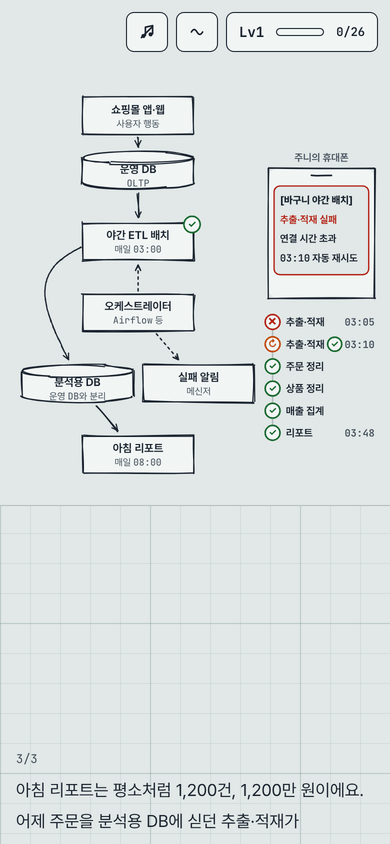
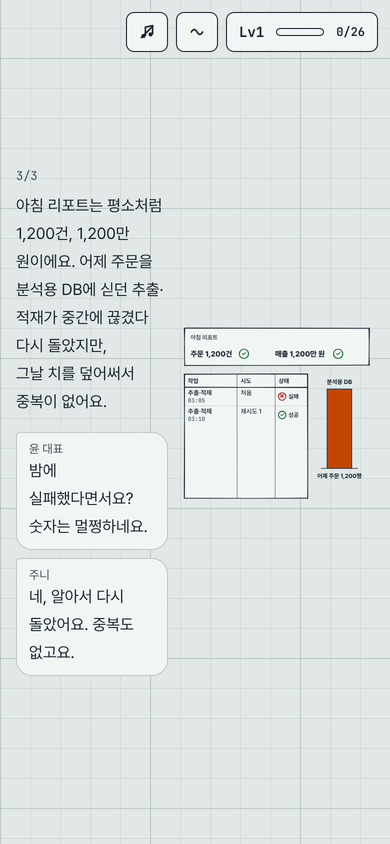
Phones: text left, figure right in portrait too (#5)
Scroll scenes keep the side-by-side layout below 768px: the title spans
both columns, steps sit in the left column and the figure stays pinned in
the right column. Dialogue bubbles show only the name on phones, and words
joined by a middle dot may wrap after the dot on phones. README image and
docs describe the new layout.

diff --git a/src/components/StepScene.tsx b/src/components/StepScene.tsx
@@ -42,9 +42,9 @@ export function StepScene(props: Props) {
   return reduced ? <StaticScene {...props} /> : <ScrubScene {...props} />
 }
 
-function SceneHeader({ id, kind, scene }: Pick<Props, 'id' | 'kind' | 'scene'>) {
+function SceneHeader({ id, kind, scene, className = '' }: Pick<Props, 'id' | 'kind' | 'scene'> & { className?: string }) {
   return (
-    <header className="pb-2 pt-[12svh] md:pt-[18svh]">
+    <header className={`pb-2 pt-[12svh] md:pt-[18svh] ${className}`}>
       <p className="font-mono text-sm text-muted">{UI.sceneKinds[kind]}</p>
       <h3 id={`${id}-title`} className="mt-1 text-[1.375rem] font-bold leading-snug md:text-[1.625rem]">
         {scene.title}
@@ -55,15 +55,16 @@ function SceneHeader({ id, kind, scene }: Pick<Props, 'id' | 'kind' | 'scene'>) 
 
 function StepBody({ step, i, n, srAlt = true }: { step: Step; i: number; n: number; srAlt?: boolean }) {
   return (
-    <div className="max-w-[34rem]">
+    <div className="min-w-0 max-w-[34rem]">
       <p className="mb-2 font-mono text-xs text-muted" aria-hidden="true">
         {i + 1}/{n}
       </p>
-      <p className="text-[1.0625rem] leading-[1.85] md:text-[1.1875rem]">
+      <p className="text-[1rem] leading-[1.75] md:text-[1.1875rem] md:leading-[1.85]">
         <Rich text={step.text} />
       </p>
+      {/* 모바일은 글 칸이 좁아서 말풍선의 얼굴 그림을 빼고 이름만 보여 준다 */}
       {step.lines?.length ? (
-        <div className="mt-4 space-y-2 md:mt-5 md:space-y-3">
+        <div className="mt-4 space-y-2 max-md:[&_svg]:hidden md:mt-5 md:space-y-3">
           {step.lines.map((l, k) => (
             <Bubble key={k} line={l} />
           ))}
@@ -133,7 +134,7 @@ function primeTransforms(tl: gsap.core.Timeline) {
   for (const el of els) gsap.getProperty(el, 'x')
 }
 
-function ScrubScene({ id, kind, scene, diagram, build, onStep, tall }: Props) {
+function ScrubScene({ id, kind, scene, diagram, build, onStep }: Props) {
   const root = useRef<HTMLDivElement>(null)
   const diag = useRef<HTMLDivElement>(null)
   const list = useRef<HTMLOListElement>(null)
@@ -156,7 +157,7 @@ function ScrubScene({ id, kind, scene, diagram, build, onStep, tall }: Props) {
       tl.time(1e-4).time(0)
 
       const items = Array.from(list.current.querySelectorAll<HTMLElement>('[data-step]'))
-      const anchor = mobile ? 0.74 : 0.5
+      const anchor = 0.5
       let last = -1
       const update = contextSafe!(() => {
         const y = window.innerHeight * anchor
@@ -195,29 +196,22 @@ function ScrubScene({ id, kind, scene, diagram, build, onStep, tall }: Props) {
   )
 
   return (
-    <section ref={root} id={id} className="relative flex flex-col md:grid md:grid-cols-[minmax(0,min(30rem,40%))_minmax(0,1fr)] lg:grid-cols-[minmax(0,min(30rem,45%))_minmax(0,1fr)] md:gap-x-12 lg:gap-x-16">
-      {/* 모바일: 위쪽 띠에 고정(HUD 아래), 옆 여백을 줄여 그림을 조금이라도 크게.
+    <section ref={root} id={id} className="relative grid grid-cols-[minmax(0,11fr)_minmax(0,14fr)] gap-x-3 md:grid-cols-[minmax(0,min(30rem,40%))_minmax(0,1fr)] lg:grid-cols-[minmax(0,min(30rem,45%))_minmax(0,1fr)] md:gap-x-12 lg:gap-x-16">
+      {/* 글은 왼쪽, 그림은 오른쪽 칸에 화면 높이로 고정(휴대폰 세로 화면도 같다). 모바일은 제목이 두 칸을 다 쓰고 그 아래에서 나란히.
           그림 설명은 step마다 화면 밖 글자(StepBody)로 읽히므로 그림 자체는 낭독에서 뺀다 */}
-      <div
-        aria-hidden="true"
-        className={`sticky top-0 z-10 -mx-4 border-b border-edge bg-bg px-2 pb-3 pt-[3.5rem] md:bg-transparent md:col-start-2 md:row-start-1 md:mx-0 md:h-svh md:self-start md:border-0 md:px-0 md:py-[7svh] ${
-          tall ? 'h-[60svh]' : 'h-[56svh]'
-        }`}
-      >
+      <div aria-hidden="true" className="sticky top-0 col-start-2 row-start-2 h-svh self-start pb-[6svh] pt-16 md:row-span-2 md:row-start-1 md:py-[7svh]">
         <div ref={diag} className="mx-auto h-full w-full max-w-[36rem]" style={small ? LIFT : undefined}>
           {near && diagram()}
         </div>
       </div>
-      <div className="md:col-start-1 md:row-start-1">
-        <SceneHeader id={id} kind={kind} scene={scene} />
-        <ol ref={list} className="pb-[44svh] md:pb-[40svh]">
-          {scene.steps.map((s, i) => (
-            <li key={i} data-step className="flex min-h-[78svh] items-start pt-[4svh] md:min-h-[82svh] md:items-center md:pt-0">
-              <StepBody step={s} i={i} n={n} />
-            </li>
-          ))}
-        </ol>
-      </div>
+      <SceneHeader id={id} kind={kind} scene={scene} className="col-span-2 col-start-1 row-start-1 md:col-span-1" />
+      <ol ref={list} className="col-start-1 row-start-2 pb-[40svh]">
+        {scene.steps.map((s, i) => (
+          <li key={i} data-step className="flex min-h-[82svh] items-center">
+            <StepBody step={s} i={i} n={n} />
+          </li>
+        ))}
+      </ol>
     </section>
   )
 }
@@ -272,12 +266,12 @@ function StaticScene({ id, kind, scene, diagram, build, onStep, tall }: Props) {
           <li
             key={i}
             data-step
-            className="grid gap-6 border-t border-edge py-10 first:border-t-0 md:grid-cols-[minmax(0,min(30rem,40%))_minmax(0,1fr)] lg:grid-cols-[minmax(0,min(30rem,45%))_minmax(0,1fr)] md:gap-x-12 md:py-14 lg:gap-x-16"
+            className="grid grid-cols-[minmax(0,11fr)_minmax(0,14fr)] gap-x-3 border-t border-edge py-10 first:border-t-0 md:grid-cols-[minmax(0,min(30rem,40%))_minmax(0,1fr)] lg:grid-cols-[minmax(0,min(30rem,45%))_minmax(0,1fr)] md:gap-x-12 md:py-14 lg:gap-x-16"
           >
-            <figure className={`md:order-2 ${tall ? 'h-[52svh] md:h-[66svh]' : 'h-[42svh] md:h-[56svh]'}`} role="img" aria-label={s.alt}>
+            <figure className={`order-2 self-center ${tall ? 'h-[52svh] md:h-[66svh]' : 'h-[42svh] md:h-[56svh]'}`} role="img" aria-label={s.alt}>
               <Snapshot diagram={diagram} build={build} n={n} i={i} />
             </figure>
-            <div className="self-center md:order-1">
+            <div className="order-1 min-w-0 self-center">
               <StepBody step={s} i={i} n={n} srAlt={false} />
             </div>
           </li>

diff --git a/src/lib/rich.tsx b/src/lib/rich.tsx
@@ -1,19 +1,46 @@
 import { Fragment } from 'react'
 
+/**
+ * 가운뎃점으로 이어 쓴 말(ETL(Extract·Transform·Load, …), 추출·변환·적재)은 띄어쓰기가 없어 한 덩어리로 줄을 바꾼다.
+ * 휴대폰의 좁은 글 칸에서는 이 덩어리가 칸보다 길어지므로 점 뒤에서 줄을 바꿀 수 있게 한다.
+ * 넓은 화면에서는 덩어리째 다음 줄로 넘기는 편이 읽기 좋아서 줄바꿈 자리를 숨긴다.
+ */
+function Dots({ text }: { text: string }) {
+  const bits = text.split('·')
+  return bits.map((b, j) => (
+    <Fragment key={j}>
+      {b}
+      {j < bits.length - 1 && (
+        <>
+          ·
+          <span className="md:hidden">
+            <wbr />
+          </span>
+        </>
+      )}
+    </Fragment>
+  ))
+}
+
 /** 콘텐츠 문자열의 아주 작은 마크업만 해석한다: **강조**, `코드` */
 export function Rich({ text }: { text: string }) {
   const parts = text.split(/(\*\*[^*]+\*\*|`[^`]+`)/g)
   return (
     <>
       {parts.map((p, i) => {
-        if (p.startsWith('**') && p.endsWith('**')) return <strong key={i} className="font-bold">{p.slice(2, -2)}</strong>
+        if (p.startsWith('**') && p.endsWith('**'))
+          return (
+            <strong key={i} className="font-bold">
+              <Dots text={p.slice(2, -2)} />
+            </strong>
+          )
         if (p.startsWith('`') && p.endsWith('`'))
           return (
             <code key={i} className="rounded bg-surface px-1 py-0.5 font-mono text-[0.88em]">
               {p.slice(1, -1)}
             </code>
           )
-        return <Fragment key={i}>{p}</Fragment>
+        return <Dots key={i} text={p} />
       })}
     </>
   )

diff --git a/src/styles/index.css b/src/styles/index.css
@@ -109,7 +109,7 @@ svg.diagram {
   color: var(--line);
   overflow: visible;
 }
-/* 모바일: 그림이 0.7~0.85배로 줄어드므로 14보다 작은 라벨을 14 쪽으로 반쯤 키운다(diagram.tsx fs()).
+/* 모바일: 그림이 글 옆 절반 폭으로 줄어드므로 14보다 작은 라벨을 14 쪽으로 반쯤 키운다(diagram.tsx fs()).
    더 키우면 챕터마다 크기를 맞춰 그린 칩·표 칸을 넘친다.
    768px 이상이라도 장면 그림 칸이 설계 크기보다 작으면(태블릿) StepScene이 그림 칸에 같은 값을 준다 */
 @media (max-width: 767px) {

diff --git a/README.md b/README.md
@@ -91,11 +91,11 @@ SQL 실행기, 파이프라인 코드 실행기, DAG 실패 시뮬레이터, 타
 
 <p align="center">
   <img src="docs/readme/mobile-hero.png" alt="휴대폰 첫 화면" width="30%">
-  <img src="docs/readme/mobile-scene.png" alt="휴대폰 장면 화면. 위에 그림이 고정되고 글이 아래로 지나가요" width="30%">
+  <img src="docs/readme/mobile-scene.png" alt="휴대폰 장면 화면. 왼쪽에 글과 말풍선, 오른쪽에 그림이 나란히 있어요" width="30%">
   <img src="docs/readme/mobile-quiz.png" alt="휴대폰 퀴즈 화면. 보기 네 개 중 하나를 고르고 정답 확인을 눌러요" width="30%">
 </p>
 
-- 화면이 넓으면(태블릿, 가로로 돌린 휴대폰 등) 웹처럼 왼쪽에 글, 오른쪽에 그림이 나란히 나와요. 폭이 좁은 세로 화면에서는 그림이 위에 고정되고 글이 그 아래로 지나가요.
+- 휴대폰에서도 웹과 같은 배치예요. 왼쪽 글을 스크롤하면 오른쪽 그림이 따라 움직여요.
 - **모션 줄이기**(시스템 설정 또는 오른쪽 위 토글)를 켜면 단계마다 정지 그림과 글로 바뀌어요. 배우는 내용은 똑같아요.
 - 키보드만으로 퀴즈·도감·설정을 모두 다룰 수 있고, 그림마다 화면 낭독기용 설명이 있어요.
 - **배경음악**은 브라우저가 그 자리에서 만들어 내는 음악이에요(음원 파일 없음). 기본은 꺼져 있고, 이야기가 진행될수록 악기가 하나씩 늘어나요.

diff --git a/docs/CHAPTER_GUIDE.md b/docs/CHAPTER_GUIDE.md
@@ -45,7 +45,7 @@ src/chapters/<Id>/<Interaction>.tsx (있으면)
   - SVG 회전은 `svgOrigin`(게이지 바늘은 `data-origin` 값 사용).
 - 색: 데이터 = `var(--accent)`, 실패 `var(--fail)` + ✕, 성공 `var(--ok)` + ✓, 대기 `var(--wait)` + ⏸. 상태는 `Badge`/`Node statuses`로 — 색만 바꾸지 않는다.
 - 선은 `Rough*`/`Node`/`RArrow`를 쓴다. 거칠기는 챕터 스테이지가 정한다. 작은 그림은 `rough={0.4}`처럼 낮춘다.
-- 모바일: `useEnv().mobile`이면 세로 배치 좌표로 그린다(다이어그램 영역이 화면 위쪽 50svh).
+- 모바일: `useEnv().mobile`이면 세로 배치 좌표로 그린다(다이어그램 영역은 글 오른쪽, 화면 폭의 약 절반).
 - 맵 변화는 `<PipelineMap t={…} from={…} />` + `mapTransition(q, tl, at(i))`.
 
 ## 인터랙션
